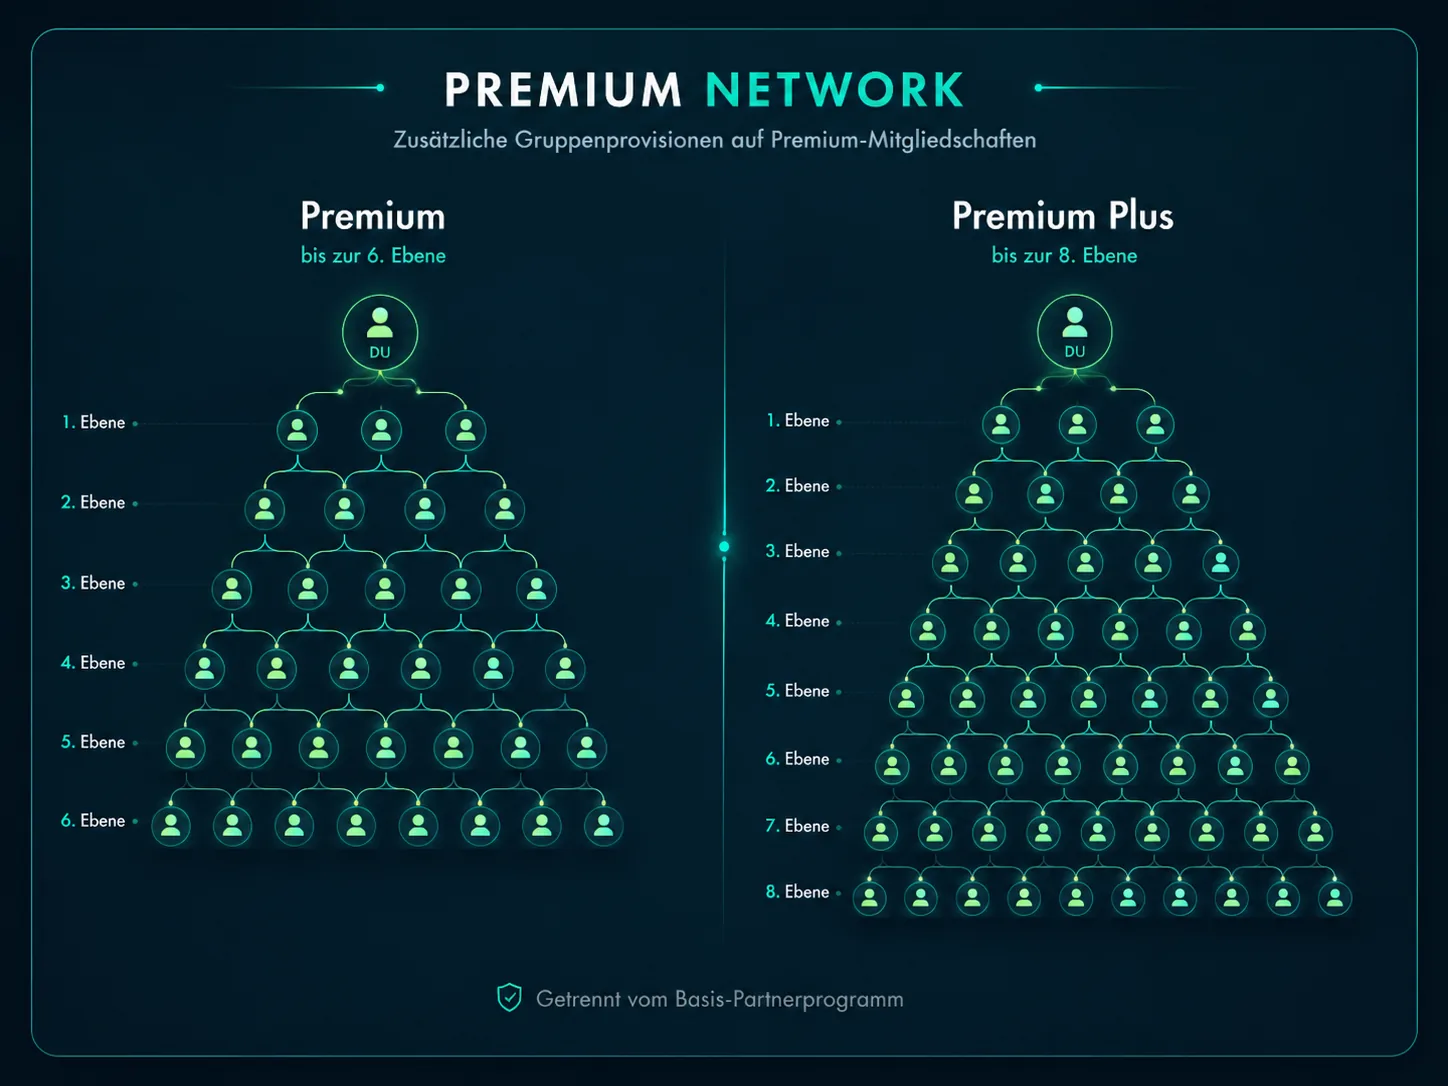
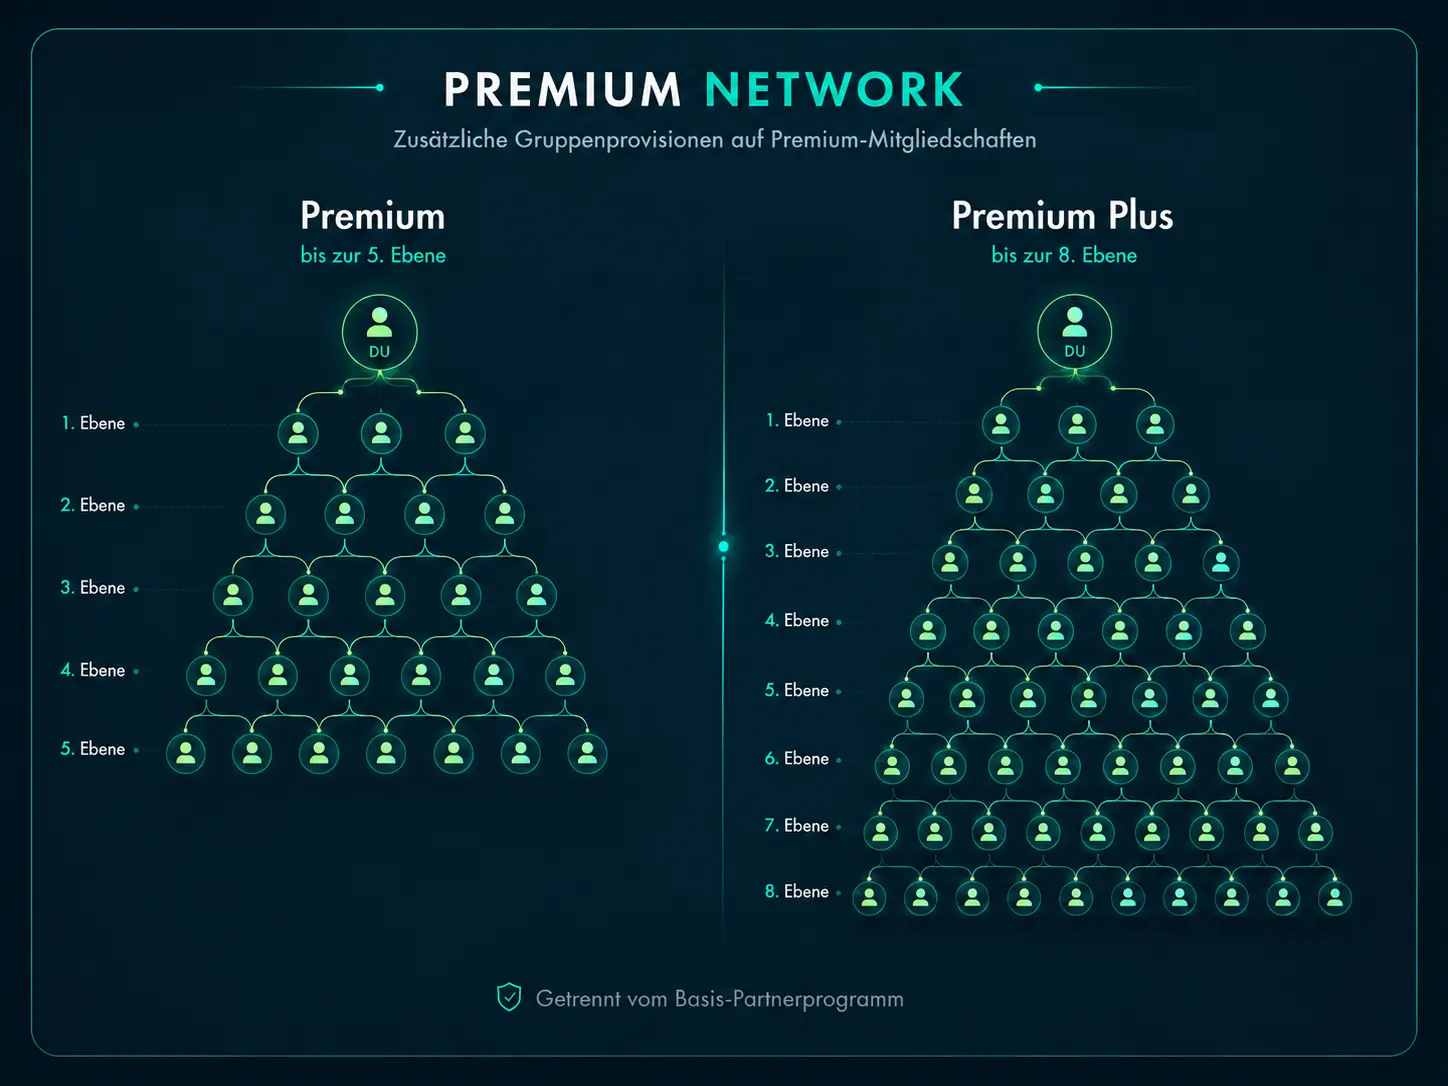
Premiumpreise und Premium-Gruppenprovision aktualisieren

diff --git a/index.html b/index.html
@@ -5,9 +5,13 @@ Live-Seite: https://betinsightclub.github.io/profil/
 
 Projekt: BetInsight
 Datei: profil/index.html
-Version: 2026.08.23-01
+Version: 2026.08.23-02
 
 Änderungen:
+- PREMIUM-TARIFE 2026.08.23-02:
+  - Premium kostet 13,49 EUR / 30 Tage; Premium Plus kostet 19,99 EUR / 30 Tage.
+  - Die separate Premium-Gruppenprovision reicht bei Premium bis Ebene 5 und bei Premium Plus bis Ebene 8.
+  - Unit-Käufe, Unit-Provisionen und das Referral-Unit-System bleiben davon vollständig getrennt und unverändert.
 - SUPPORT-UUID-ZAEHLER 2026.08.23-01:
   - Der rote Support-Zähler im Profil verwendet jetzt dieselbe isolierte Support User API UUID v2 wie die Supportseite.
   - Die Authentifizierung erfolgt ausschließlich über den bestätigten dashboard_token / UUID.
@@ -80,7 +84,7 @@ Version: 2026.08.23-01
 - Das Tarifinfo-Popup vergleicht nun immer Basis, Premium und Premium Plus gemeinsam.
 - Der aktuell aktive Tarif wird in der Vergleichsansicht mit „DEIN TARIF“ markiert.
 - Abkürzungen wie E3/E6/E8 wurden in der Kundenansicht entfernt und durch „3./6./8. Ebene“ ersetzt.
-- Premium: 2 Anbieter-/Quotenanzeigen, zusätzliche Premium-Provision bis zur 6. Ebene, keine direkten Affiliate-Links.
+- Premium: 2 Anbieter-/Quotenanzeigen, zusätzliche Premium-Provision bis zur 5. Ebene, keine direkten Affiliate-Links.
 - Premium Plus: bis zu 5 Anbieter im Quotenvergleich, zusätzliche Premium-Provision bis zur 8. Ebene, freigegebene direkte Anbieter-/Affiliate-Links.
 - Premium → Premium Plus bleibt im Bereich Abo & Verlängerung vorbereitet.
 - Kontostand, Tipp-, Referral-, Token- und Netzwerklogik bleiben unverändert.
@@ -955,7 +959,7 @@ input{width:100%;min-height:47px;padding:12px 14px;border:2px solid var(--blue);
             </div>
             <div id="membershipInfoPanelLegacy" class="membership-info-panel info-level-0" style="display:none!important" aria-hidden="true">
               <div class="membership-info-head"><div class="membership-info-title-wrap"><div class="membership-info-eyebrow">Premium-Vorteile</div><strong id="membershipInfoTitleLegacy">Premium wählen</strong></div><span id="membershipInfoSublineLegacy">Hier siehst du nur die zusätzlichen Leistungen.</span></div>
-              <div class="membership-info-grid"><article class="membership-info-tier basis-info-tier" data-membership-level="0" aria-hidden="true"><div class="membership-info-kicker">Basis</div><h4>BetInsight Basis</h4></article><article class="membership-info-tier premium-info-tier" data-membership-level="1"><div class="membership-info-kicker">Premium · 9,99 € / 30 Tage</div><h4>2 Anbieter + Premium bis zur 6. Ebene</h4><ul><li><strong>2 Anbieter-/Quotenanzeigen</strong> bei freigeschalteten Tipps</li><li>Zusätzliche Premium-Provision bis <span class="membership-feature-highlight">Ebene 6</span></li><li>30 Tage Laufzeit je Aktivierung oder Verlängerung</li><li>Direkte Anbieterlinks gibt es erst mit Premium Plus</li></ul></article><article class="membership-info-tier premiumplus-info-tier" data-membership-level="2"><div class="membership-info-kicker">Premium Plus · 14,99 € / 30 Tage</div><h4>5 Anbieter + Premium bis zur 8. Ebene</h4><ul><li><strong>Quotenvergleich für bis zu 5 Anbieter</strong></li><li>Zusätzliche Premium-Provision bis <span class="membership-feature-highlight">Ebene 8</span></li><li>Freigegebene direkte Anbieter-/Affiliate-Links</li><li>30 Tage Laufzeit je Aktivierung oder Verlängerung</li></ul></article></div>
+              <div class="membership-info-grid"><article class="membership-info-tier basis-info-tier" data-membership-level="0" aria-hidden="true"><div class="membership-info-kicker">Basis</div><h4>BetInsight Basis</h4></article><article class="membership-info-tier premium-info-tier" data-membership-level="1"><div class="membership-info-kicker">Premium · 13,49 € / 30 Tage</div><h4>2 Anbieter + Premium bis zur 5. Ebene</h4><ul><li><strong>2 Anbieter-/Quotenanzeigen</strong> bei freigeschalteten Tipps</li><li>Zusätzliche Premium-Provision bis <span class="membership-feature-highlight">Ebene 5</span></li><li>30 Tage Laufzeit je Aktivierung oder Verlängerung</li><li>Direkte Anbieterlinks gibt es erst mit Premium Plus</li></ul></article><article class="membership-info-tier premiumplus-info-tier" data-membership-level="2"><div class="membership-info-kicker">Premium Plus · 19,99 € / 30 Tage</div><h4>5 Anbieter + Premium bis zur 8. Ebene</h4><ul><li><strong>Quotenvergleich für bis zu 5 Anbieter</strong></li><li>Zusätzliche Premium-Provision bis <span class="membership-feature-highlight">Ebene 8</span></li><li>Freigegebene direkte Anbieter-/Affiliate-Links</li><li>30 Tage Laufzeit je Aktivierung oder Verlängerung</li></ul></article></div>
               <div class="membership-info-note"><strong>Bei allen Mitgliedschaften enthalten:</strong> die laufenden Unit-Provisionen aus dem bestehenden Referral-System bis Ebene 3. Premium ergänzt diese Basis um zusätzliche Premium-Leistungen.</div>
             </div>
           </div>
@@ -1025,8 +1029,8 @@ input{width:100%;min-height:47px;padding:12px 14px;border:2px solid var(--blue);
     <div class="membership-info-head"><div class="membership-info-title-wrap"><div class="membership-info-eyebrow">BetInsight Mitgliedschaft</div><strong id="membershipInfoTitle">Mitgliedschaften vergleichen</strong></div><span id="membershipInfoSubline">Basis, Premium und Premium Plus auf einen Blick. Dein aktueller Tarif ist markiert.</span></div>
     <div class="membership-info-grid">
       <article class="membership-info-tier basis-info-tier" data-membership-level="0"><div class="membership-info-kicker">Basis · Standardzugang</div><h4>Alles für den Einstieg</h4><ul><li>Zugang zum BetInsight Unit- und Tipp-System</li><li><strong>Laufende Unit-Provisionen bis zur 3. Ebene</strong> aus dem bestehenden Referral-System</li><li>Persönliche Empfehlungslinks und Netzwerkübersicht</li><li>Freigeschaltete Tipps und Unit-Verwaltung im eigenen Profil</li><li>Keine monatliche Premium-Laufzeit erforderlich</li></ul></article>
-      <article class="membership-info-tier premium-info-tier" data-membership-level="1"><div class="membership-info-kicker">Premium · 9,99 € / 30 Tage</div><h4>2 Anbieter + mehr Provisionstiefe</h4><ul><li><strong>Alle Basis-Leistungen inklusive</strong></li><li><strong>2 Anbieter-/Quotenanzeigen</strong> bei freigeschalteten Tipps</li><li>Zusätzliche Premium-Provision bis zur <span class="membership-feature-highlight">6. Ebene</span></li><li>30 Tage Laufzeit je Aktivierung oder Verlängerung</li><li>Direkte Anbieterlinks gibt es erst mit Premium Plus</li></ul></article>
-      <article class="membership-info-tier premiumplus-info-tier" data-membership-level="2"><div class="membership-info-kicker">Premium Plus · 14,99 € / 30 Tage</div><h4>5 Anbieter + maximale Provisionstiefe</h4><ul><li><strong>Alle Premium-Leistungen inklusive</strong></li><li><strong>Quotenvergleich für bis zu 5 Anbieter</strong></li><li>Zusätzliche Premium-Provision bis zur <span class="membership-feature-highlight">8. Ebene</span></li><li>Freigegebene direkte Anbieter-/Affiliate-Links</li><li>30 Tage Laufzeit je Aktivierung oder Verlängerung</li></ul></article>
+      <article class="membership-info-tier premium-info-tier" data-membership-level="1"><div class="membership-info-kicker">Premium · 13,49 € / 30 Tage</div><h4>2 Anbieter + mehr Provisionstiefe</h4><ul><li><strong>Alle Basis-Leistungen inklusive</strong></li><li><strong>2 Anbieter-/Quotenanzeigen</strong> bei freigeschalteten Tipps</li><li>Zusätzliche Premium-Provision bis zur <span class="membership-feature-highlight">5. Ebene</span></li><li>30 Tage Laufzeit je Aktivierung oder Verlängerung</li><li>Direkte Anbieterlinks gibt es erst mit Premium Plus</li></ul></article>
+      <article class="membership-info-tier premiumplus-info-tier" data-membership-level="2"><div class="membership-info-kicker">Premium Plus · 19,99 € / 30 Tage</div><h4>5 Anbieter + maximale Provisionstiefe</h4><ul><li><strong>Alle Premium-Leistungen inklusive</strong></li><li><strong>Quotenvergleich für bis zu 5 Anbieter</strong></li><li>Zusätzliche Premium-Provision bis zur <span class="membership-feature-highlight">8. Ebene</span></li><li>Freigegebene direkte Anbieter-/Affiliate-Links</li><li>30 Tage Laufzeit je Aktivierung oder Verlängerung</li></ul></article>
     </div>
     <div class="membership-info-note"><strong>Klare Trennung:</strong> Die Unit-Provisionen aus dem bestehenden Referral-System laufen bis zur 3. Ebene. Premium und Premium Plus ergänzen diese um zusätzliche Premium-Leistungen und eine größere Provisionstiefe.</div>
   </div>
@@ -1166,7 +1170,7 @@ function premiumActionNotConnected(type){let text="Diese Funktion wird mit Premi
 function toggleMembershipInfo(event){if(event)event.stopPropagation();const overlay=document.getElementById("membershipInfoOverlay"),button=document.getElementById("membershipInfoButton");if(!overlay||!button)return;const willOpen=overlay.hidden;overlay.hidden=!willOpen;button.classList.toggle("active",willOpen);button.setAttribute("aria-expanded",willOpen?"true":"false")}
 function closeMembershipInfo(){const overlay=document.getElementById("membershipInfoOverlay"),button=document.getElementById("membershipInfoButton");if(overlay)overlay.hidden=true;if(button){button.classList.remove("active");button.setAttribute("aria-expanded","false")}}
 
-function startMembershipUpgrade(target){const box=document.getElementById("premiumManagerOverlay"),title=document.getElementById("premiumManagerTitle"),summary=document.getElementById("premiumManagerSummary"),message=document.getElementById("premiumManagerMessage");if(!box)return;const membership=normalizeMembership(currentProfileData.membershipLevel,currentProfileData.membership),creditOption=document.getElementById("premiumCreditOption"),externalOption=document.getElementById("premiumExternalOption"),autoOption=document.getElementById("premiumAutoOption"),creditTitle=document.getElementById("premiumCreditTitle"),creditText=document.getElementById("premiumCreditText"),creditButton=document.getElementById("premiumCreditButton"),externalTitle=document.getElementById("premiumExternalTitle"),externalText=document.getElementById("premiumExternalText"),externalButton=document.getElementById("premiumExternalButton"),plusSwitch=document.getElementById("premiumPlusSwitchOption");if(plusSwitch)plusSwitch.hidden=true;if(externalOption)externalOption.hidden=false;if(membership.level===0){premiumManagerMode=target==="PREMIUM_PLUS"?"UPGRADE_PLUS":"UPGRADE_PREMIUM";if(creditOption)creditOption.hidden=true;if(autoOption)autoOption.hidden=true;if(target==="PREMIUM_PLUS"){if(title)title.innerText="Premium Plus aktivieren";if(summary)summary.innerText="Bis zu 5 Anbieter im Quotenvergleich und zusätzliche Premium-Provisionen bis zur 8. Ebene.";if(externalTitle)externalTitle.innerText="Premium Plus aktivieren";if(externalText)externalText.innerText="Erstaktivierung über den vorgesehenen externen Zahlungsweg.";if(externalButton)externalButton.innerText="Jetzt aktivieren"}else{if(title)title.innerText="Premium aktivieren";if(summary)summary.innerText="2 Anbieter-/Quotenanzeigen und zusätzliche Premium-Provisionen bis zur 6. Ebene.";if(externalTitle)externalTitle.innerText="Premium aktivieren";if(externalText)externalText.innerText="Erstaktivierung über den vorgesehenen externen Zahlungsweg.";if(externalButton)externalButton.innerText="Jetzt aktivieren"}if(message)message.innerText="Nach erfolgreicher Aktivierung stehen Abo-Verwaltung, Verlängerung und – sofern vorhanden – auszahlbares Provisionsguthaben zur Verfügung.";box.hidden=false;return}premiumManagerMode="UPGRADE_PLUS";if(creditOption)creditOption.hidden=false;if(autoOption)autoOption.hidden=true;if(creditTitle)creditTitle.innerText="Mit Provisionsguthaben upgraden";if(creditText)creditText.innerText="Nur bereits auszahlbares Provisionsguthaben kann verwendet werden.";if(creditButton)creditButton.innerText="Guthaben verwenden";if(externalTitle)externalTitle.innerText="Extern auf Premium Plus wechseln";if(externalText)externalText.innerText="Tarifwechsel über den vorgesehenen externen Zahlungsweg.";if(externalButton)externalButton.innerText="Premium Plus aktivieren";if(title)title.innerText="Upgrade auf Premium Plus";if(summary)summary.innerText="Bis zu 5 Anbieter im Quotenvergleich und zusätzliche Premium-Provisionen bis zur 8. Ebene.";if(message)message.innerText="Die zusätzlichen Premium-Plus-Leistungen gelten erst ab bestätigter Aktivierung und nicht rückwirkend.";box.hidden=false}
+function startMembershipUpgrade(target){const box=document.getElementById("premiumManagerOverlay"),title=document.getElementById("premiumManagerTitle"),summary=document.getElementById("premiumManagerSummary"),message=document.getElementById("premiumManagerMessage");if(!box)return;const membership=normalizeMembership(currentProfileData.membershipLevel,currentProfileData.membership),creditOption=document.getElementById("premiumCreditOption"),externalOption=document.getElementById("premiumExternalOption"),autoOption=document.getElementById("premiumAutoOption"),creditTitle=document.getElementById("premiumCreditTitle"),creditText=document.getElementById("premiumCreditText"),creditButton=document.getElementById("premiumCreditButton"),externalTitle=document.getElementById("premiumExternalTitle"),externalText=document.getElementById("premiumExternalText"),externalButton=document.getElementById("premiumExternalButton"),plusSwitch=document.getElementById("premiumPlusSwitchOption");if(plusSwitch)plusSwitch.hidden=true;if(externalOption)externalOption.hidden=false;if(membership.level===0){premiumManagerMode=target==="PREMIUM_PLUS"?"UPGRADE_PLUS":"UPGRADE_PREMIUM";if(creditOption)creditOption.hidden=true;if(autoOption)autoOption.hidden=true;if(target==="PREMIUM_PLUS"){if(title)title.innerText="Premium Plus aktivieren";if(summary)summary.innerText="Bis zu 5 Anbieter im Quotenvergleich und zusätzliche Premium-Provisionen bis zur 8. Ebene.";if(externalTitle)externalTitle.innerText="Premium Plus aktivieren";if(externalText)externalText.innerText="Erstaktivierung über den vorgesehenen externen Zahlungsweg.";if(externalButton)externalButton.innerText="Jetzt aktivieren"}else{if(title)title.innerText="Premium aktivieren";if(summary)summary.innerText="2 Anbieter-/Quotenanzeigen und zusätzliche Premium-Provisionen bis zur 5. Ebene.";if(externalTitle)externalTitle.innerText="Premium aktivieren";if(externalText)externalText.innerText="Erstaktivierung über den vorgesehenen externen Zahlungsweg.";if(externalButton)externalButton.innerText="Jetzt aktivieren"}if(message)message.innerText="Nach erfolgreicher Aktivierung stehen Abo-Verwaltung, Verlängerung und – sofern vorhanden – auszahlbares Provisionsguthaben zur Verfügung.";box.hidden=false;return}premiumManagerMode="UPGRADE_PLUS";if(creditOption)creditOption.hidden=false;if(autoOption)autoOption.hidden=true;if(creditTitle)creditTitle.innerText="Mit Provisionsguthaben upgraden";if(creditText)creditText.innerText="Nur bereits auszahlbares Provisionsguthaben kann verwendet werden.";if(creditButton)creditButton.innerText="Guthaben verwenden";if(externalTitle)externalTitle.innerText="Extern auf Premium Plus wechseln";if(externalText)externalText.innerText="Tarifwechsel über den vorgesehenen externen Zahlungsweg.";if(externalButton)externalButton.innerText="Premium Plus aktivieren";if(title)title.innerText="Upgrade auf Premium Plus";if(summary)summary.innerText="Bis zu 5 Anbieter im Quotenvergleich und zusätzliche Premium-Provisionen bis zur 8. Ebene.";if(message)message.innerText="Die zusätzlichen Premium-Plus-Leistungen gelten erst ab bestätigter Aktivierung und nicht rückwirkend.";box.hidden=false}
 function renderMembershipActions(level){const basisBox=document.getElementById("basisUpgradeBox"),premiumRuntime=document.getElementById("premiumRuntimeBox"),premiumPlusUpgrade=document.getElementById("premiumPlusUpgradeButton");if(!basisBox||!premiumRuntime||!premiumPlusUpgrade)return;if(level===0){basisBox.hidden=false;premiumRuntime.hidden=true;premiumPlusUpgrade.hidden=true;return}basisBox.hidden=true;premiumRuntime.hidden=false;premiumPlusUpgrade.hidden=true}
 function highlightCurrentMembershipTier(level){const panel=document.getElementById("membershipInfoPanel");if(!panel)return;panel.querySelectorAll(".membership-info-tier").forEach(card=>card.classList.remove("current-tier"));const safeLevel=Math.min(2,Math.max(0,Number(level)||0));panel.querySelector(`.membership-info-tier[data-membership-level="${safeLevel}"]`)?.classList.add("current-tier")}
 function configureMembershipInfo(level){const panel=document.getElementById("membershipInfoPanel"),title=document.getElementById("membershipInfoTitle"),subline=document.getElementById("membershipInfoSubline");if(!panel)return;panel.classList.remove("info-level-0","info-level-1","info-level-2");panel.classList.add("info-level-0");if(title)title.innerText="Mitgliedschaften vergleichen";if(subline)subline.innerText="Basis, Premium und Premium Plus auf einen Blick. Dein aktueller Tarif ist markiert."}

diff --git a/betinsightcommunity/index.html b/betinsightcommunity/index.html
@@ -1,5 +1,5 @@
 <!doctype html>
-<!-- BetInsight Landingpage v2.4 | PFAD: /profil/betinsightcommunity/index.html | GEÄNDERT: Partnerprogramm klar vom Premium Network getrennt, Premium E1-E6 / Premium Plus E1-E8 ergänzt, neues WebP eingebunden, Referral-Code wird zu betinsight.network weitergegeben -->
+<!-- BetInsight Landingpage v2.5 | PFAD: /profil/betinsightcommunity/index.html | GEÄNDERT: Partnerprogramm klar vom Premium Network getrennt, Premium E1-E5 / Premium Plus E1-E8 ergänzt, neues WebP eingebunden, Referral-Code wird zu betinsight.network weitergegeben -->
 <html lang="de">
 <head>
   <meta charset="utf-8">
@@ -1487,7 +1487,7 @@
       </div>
     </section>
 
-    <!-- NEU v2.4: Partnerprogramm und Premium Network sauber getrennt -->
+    <!-- NEU v2.5: Partnerprogramm und Premium Network sauber getrennt -->
     <section class="network-section" id="netzwerk" aria-labelledby="network-title">
       <div class="container">
         <div class="network-intro">
@@ -1544,7 +1544,7 @@
             <div class="premium-levels" aria-label="Premium Network Ebenen">
               <div class="premium-level">
                 <strong>Premium</strong>
-                <span>Premium Network bis zur <b>6. Ebene</b></span>
+                <span>Premium Network bis zur <b>5. Ebene</b></span>
               </div>
               <div class="premium-level plus">
                 <strong>Premium Plus</strong>
@@ -1554,7 +1554,7 @@
           </div>
 
           <figure class="premium-visual">
-            <img src="assets/premium-network-ebenenvergleich.webp" alt="Vergleich des BetInsight Premium Networks: Premium bis zur sechsten Ebene und Premium Plus bis zur achten Ebene" loading="lazy" width="1448" height="1086">
+            <img src="assets/premium-network-ebenenvergleich.webp" alt="Vergleich des BetInsight Premium Networks: Premium bis zur fünften Ebene und Premium Plus bis zur achten Ebene" loading="lazy" width="1448" height="1086">
           </figure>
 
           <div class="network-note">
